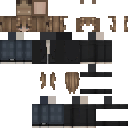
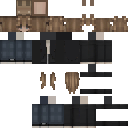
Head hat layer per 8x8 blueprint: tufts on blocks 2-3 and 6-7, closed back and sides, single temple notch
Claude-Session: https://claude.ai/code/session_01E8KVnok6Fx7faRrVpDBB9K

diff --git a/minecraft-skin/make_skin.py b/minecraft-skin/make_skin.py
@@ -84,30 +84,26 @@ def build(slim=True):
         for j in (14, 15):
             c = face[i, j]
             if not is_hair(c) and (c[0] < 120 or c[0] - c[2] < 25): face[i, j] = face[i, 13]
-    put(8, 8, face)                                                        # face + hair (base layer)
-    put(40, 8, face, keep=lambda i, j, c: lit(_hat8[i//2, j//2]) and j > 0)  # fringe and locks stand out on the hat layer
+    tuft = lambda i: i//2 in (1, 2, 5, 6)                                  # the two tufts: blocks 2-3 and 6-7 of 8
+    toprow = lambda i, j, c: dark(c, .7) if (j < 2 and not tuft(i)) else c # base is shaded where the hat is cut away
+    put(8, 8, face, fn=toprow)                                             # face + hair (base layer)
+    put(40, 8, face, keep=lambda i, j, c: lit(_hat8[i//2, j//2]) and (j >= 2 or tuft(i)))
     bk = fill_rows(back(262, 374, 694, 806, 16, 16)); bk8 = back(262, 374, 694, 806, 8, 8)
     for (i, j) in list(bk):
         blk = bk8[i//2, j//2]
         if (j < 6 or i < 4 or i > 11) and is_hair(blk) and blk[0] >= 72: bk[i, j] = blk
     bk = vsmooth(bk, lambda i, j: j >= 6 and 4 <= i <= 11)
-    outer = lambda i, j: (i < 4 or i > 11) and not (i in (0, 15) and 6 <= j <= 10)   # only the two side locks are raised
-    put(24, 8, bk, fn=lambda i, j, c: SHADOW if (i in (0, 15) and 6 <= j <= 10) else dark(c, .72) if i in (4, 11) else c)
-    put(56, 8, bk, keep=lambda i, j, c: outer(i, j))
+    gap = lambda i, j: i in (0, 15) and 6 <= j <= 9                        # small gaps at the outer edge only
+    put(24, 8, bk, fn=lambda i, j, c: SHADOW if gap(i, j) else toprow(i, j, c))
+    put(56, 8, bk, keep=lambda i, j, c: not gap(i, j) and (j >= 2 or tuft(i)),
+        fn=lambda i, j, c: dark(c, .93) if 6 <= i <= 9 and j >= 2 else c)  # closed back, centre a touch darker
     side = fill_rows(quad(QH, (112, 925), (345, 958), (345, 1425), (115, 1398), 16, 16))
     side = vsmooth(side, lambda i, j: i < 12)                              # calm vertical strands
     for (i, j) in list(side):                                              # the curls next to the face are blocks
         if i >= 12: side[i, j] = side[12 + 2*((i-12)//2), 2*(j//2)]
-    def side_hat(i, j, c):                                                 # i = 0 at the back, 15 next to the face
-        if i < 4 and j < 2: return True                                    # wall of the tuft
-        if i >= 12 and j >= 2: return True                                 # curls next to the face
-        if i < 2 and 9 <= j <= 13: return True                             # loose strand at the back
-        return False
-    def side_base(i, j, c):
-        if i < 2 and 6 <= j <= 8: return SHADOW                            # notch at the temple
-        if i == 11 and j >= 2: return dark(c, .72)                         # shadow behind the curls
-        if j < 2 and i >= 4: return dark(c, .8)
-        return c
+    notch = lambda i, j: i < 2 and j in (6, 7)                             # one-block notch at the temple
+    side_hat = lambda i, j, c: j >= 2 and not notch(i, j)                  # closed wall, top edge slopes away
+    side_base = lambda i, j, c: SHADOW if notch(i, j) else dark(c, .7) if j < 2 else c
     put(0, 8, side, fn=side_base); put(32, 8, side, keep=side_hat)
     put(16, 8, side, flip=True, fn=side_base); put(48, 8, side, keep=side_hat, flip=True)
     top = quad(QH, (112, 925), (570, 895), (810, 925), (345, 958), 16, 16)
@@ -119,16 +115,14 @@ def build(slim=True):
             top[i, j] = tuple(int(v*0.9) for v in rm) if i in (0, 15) else rm
     for i in (2, 3, 12, 13):                                               # the two small highlights near the front
         for j in (11, 12): top[i, j] = (200, 180, 155)
-    isear = lambda i, j: i//2 in (0, 1, 6, 7) and j//2 in (0, 1)
+    lid = lambda i, j: tuft(i) and (j < 6 or j >= 14)                      # lids close the tufts (back part and front edge)
     def top_base(i, j, c):
-        if isear(i, j): return SHADOW                                      # under the tufts
-        if (i in (4, 5, 10, 11) and j < 4) or (j in (4, 5) and (i < 4 or i > 11)): return dark(c, .55)   # their shadow
-        if i in (0, 15) or j in (0, 15): return dark(c, .7)
-        return dark(c, .86)
+        if lid(i, j): return dark(c, .55)
+        if i in (0, 15) or j in (0, 15): return dark(c, .62)
+        return dark(c, .84)
     put(8, 0, top, fn=top_base)
     earc = quad(QH, (150, 885), (160, 885), (160, 892), (150, 892), 1, 1)[0, 0]
-    put(40, 0, top, keep=lambda i, j, c: isear(i, j),                      # ears: caps on the back corners, closed by the hair walls
-        fn=lambda i, j, c: earc)
+    put(40, 0, top, keep=lambda i, j, c: lid(i, j), fn=lambda i, j, c: earc)
     chin = front(300, 660, 590, 700, 16, 16)
     put(16, 0, chin, fn=lambda i, j, c: c if 2 <= i <= 13 and 2 <= j <= 13 else (95, 74, 58))
 
@@ -199,12 +193,13 @@ def v2(img):
         for j in range(17, 24): blend(64+i, 72+j, (230, 194, 134), .22)
     for (i, j) in ((6, 1), (9, 1), (7, 2), (8, 2)): px[40+i, 40+j] = (212, 176, 110, 255)   # necklace
     for i in (7, 8): px[40+i, 40+3] = (236, 186, 128, 255)                                   # heart pendant
-    GREY, PINK = (146, 136, 128, 255), (244, 228, 226, 255)                        # cat ears: grey fur, light inside
-    for ex in (0, 12):
-        for i in range(4):
-            for j in range(4): px[80+ex+i, j] = PINK if (i in (1, 2) and j in (1, 2)) else GREY
-            px[112+ex+i, 16] = GREY                                                # back wall of the ear
-    for i in range(4): px[64+i, 16] = GREY; px[96+12+i, 16] = GREY                 # side walls
+    GREY = (150, 140, 132, 255)                                                    # tufts as grey cat ears
+    for i in range(16):
+        for j in range(16):
+            if px[80+i, j][3]: px[80+i, j] = (236, 222, 218, 255) if (i % 8 in (3, 4) and 1 <= j <= 3) else GREY
+        for j in (0, 1):
+            for ox in (80, 112):
+                if px[ox+i, 16+j][3]: px[ox+i, 16+j] = GREY
     return img
 
 if __name__ == "__main__":
